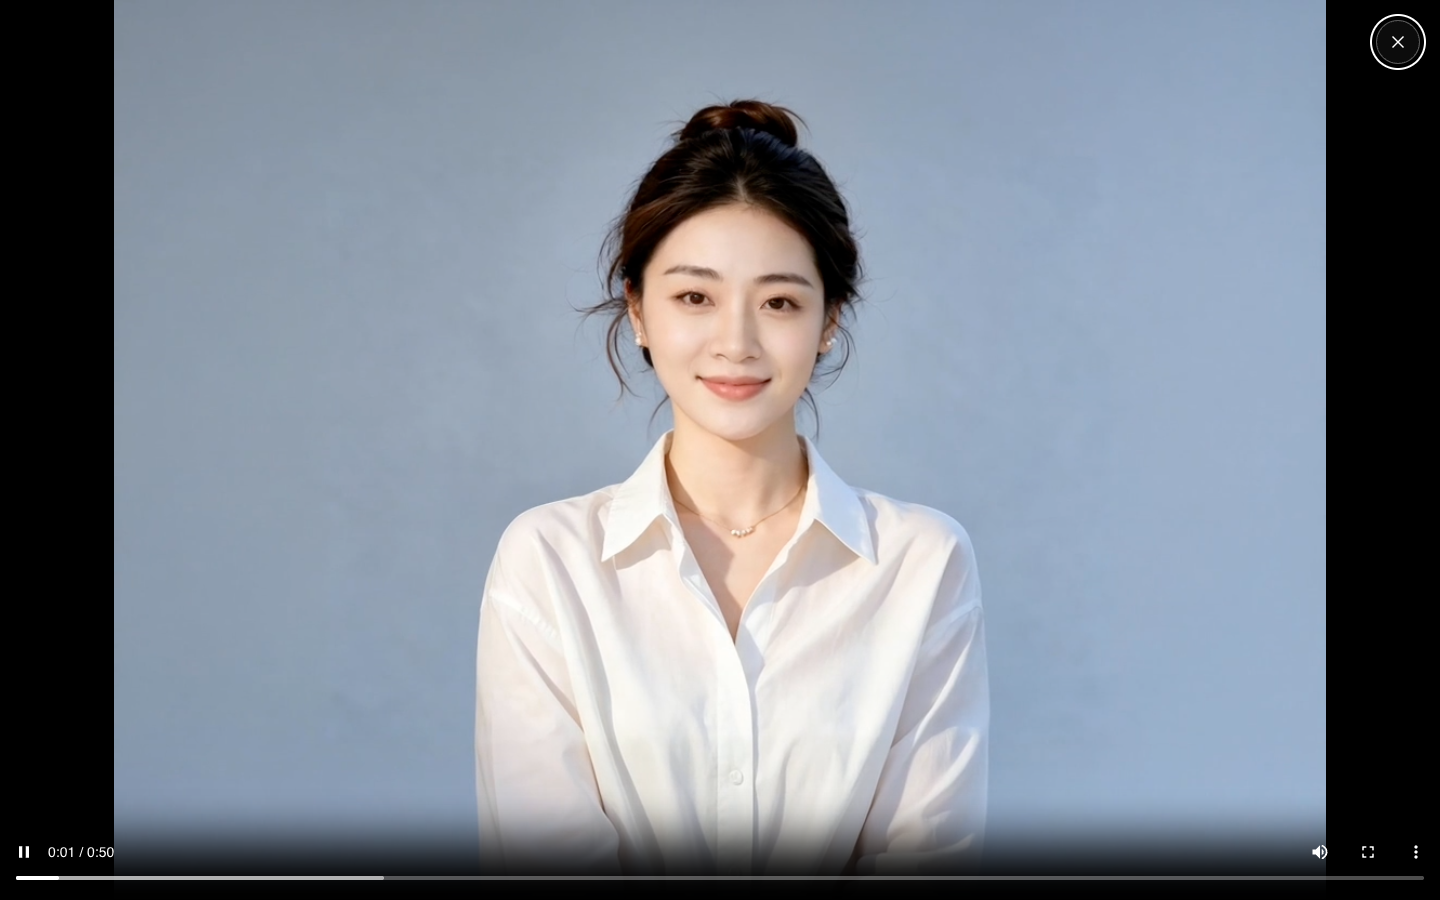
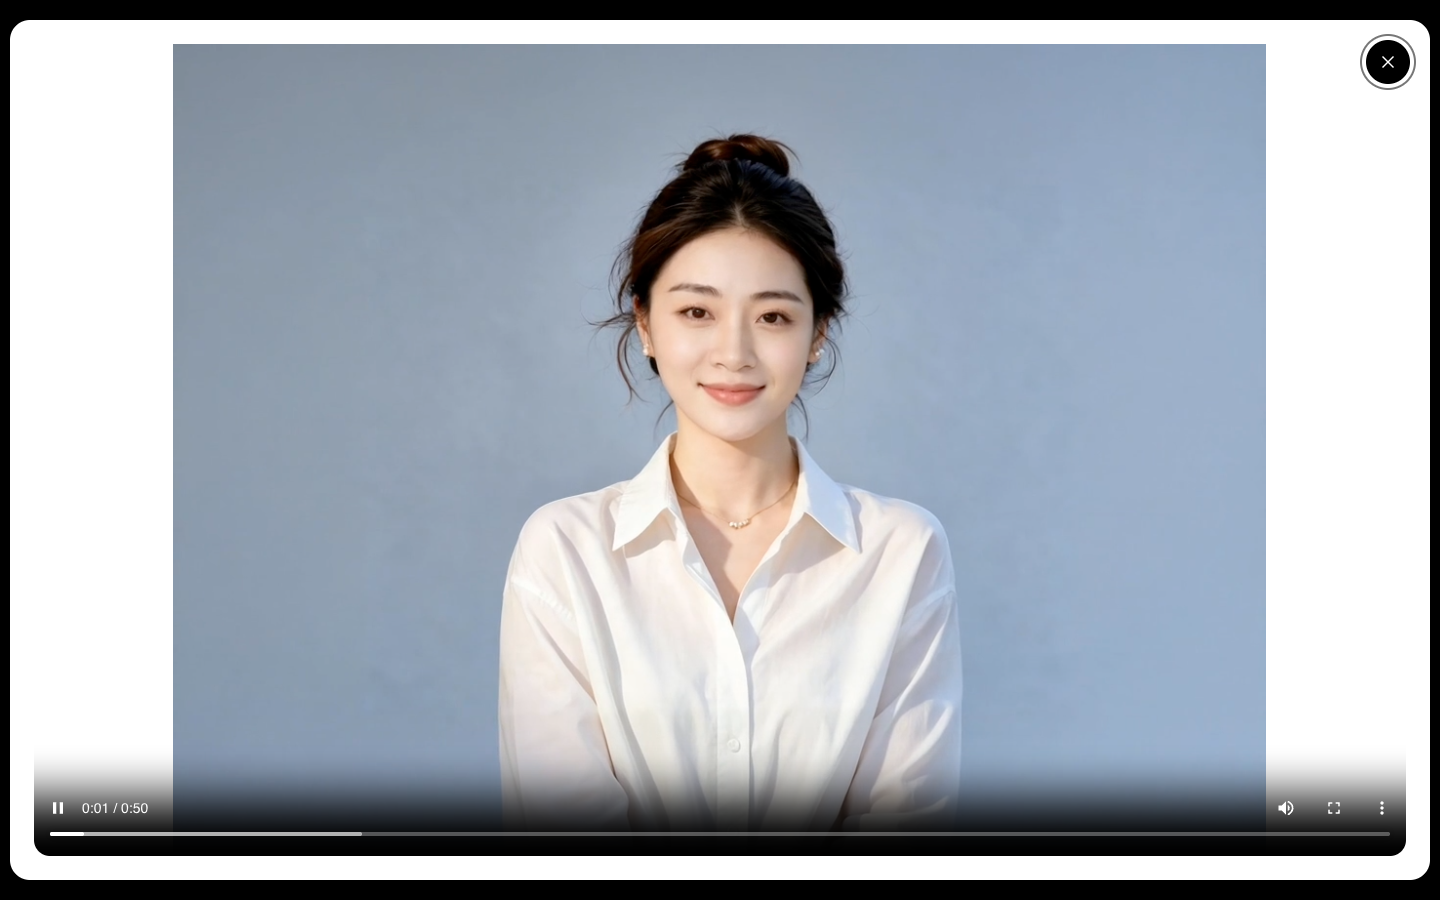
Keep rounded white detail frame for About video playback

diff --git a/tools/verify_showreel.js b/tools/verify_showreel.js
@@ -24,9 +24,9 @@ const wait=ms=>new Promise(r=>setTimeout(r,ms));
  await wait(1500);
  const fullscreen=await page.evaluate(()=>{
   const d=document.querySelector('.about-video-viewer'),v=d?.querySelector('video'),r=d?.getBoundingClientRect();
-  return {open:d?.open, width:r?.width,height:r?.height,vw:innerWidth,vh:innerHeight,muted:v?.muted,paused:v?.paused,time:v?.currentTime,text:d?.innerText};
+  return {open:d?.open, width:r?.width,height:r?.height,vw:innerWidth,vh:innerHeight,muted:v?.muted,paused:v?.paused,time:v?.currentTime,text:d?.innerText,background:getComputedStyle(d).backgroundColor,radius:getComputedStyle(d).borderRadius,scrolls:d.scrollHeight>d.clientHeight};
  });
- if(!fullscreen.open||fullscreen.width!==fullscreen.vw||fullscreen.height!==fullscreen.vh||fullscreen.muted||fullscreen.paused||fullscreen.time<=0||fullscreen.text.trim())throw Error('Video-only fullscreen/audio failed: '+JSON.stringify(fullscreen));
+ if(!fullscreen.open||fullscreen.width!==fullscreen.vw-20||fullscreen.height!==fullscreen.vh-40||fullscreen.background!=='rgb(255, 255, 255)'||fullscreen.radius!=='20px'||fullscreen.scrolls||fullscreen.muted||fullscreen.paused||fullscreen.time<=0||fullscreen.text.trim())throw Error('Video-only fullscreen/audio failed: '+JSON.stringify(fullscreen));
  await page.screenshot({path:path.join(__dirname,'../screenshots/about_video_fullscreen.png')});
  await page.getByRole('button',{name:'关闭视频'}).click();
  if(await page.locator('.about-video-viewer').count())throw Error('Close failed');
@@ -36,7 +36,7 @@ const wait=ms=>new Promise(r=>setTimeout(r,ms));
  await page.goto(origin,{waitUntil:'domcontentloaded'});await wait(5000);
  await page.locator('[data-gl="card"][data-id="showreel"]').click({force:true});await wait(1500);
  const mobile=await page.locator('.about-video-viewer').boundingBox();
- if(mobile.width!==390||mobile.height!==844)throw Error('Mobile fullscreen dimensions failed');
+ if(mobile.width!==370||mobile.height!==824)throw Error('Mobile fullscreen dimensions failed');
  await page.screenshot({path:path.join(__dirname,'../screenshots/about_video_mobile.png')});
  await page.getByRole('button',{name:'关闭视频'}).click();
  await page.goto(origin+'/projects/showreel',{waitUntil:'domcontentloaded'});await wait(3500);

diff --git a/site/local-copy.css b/site/local-copy.css
@@ -246,17 +246,22 @@ div.fixed.inset-0.z-40 a.label[href="/"] {
 /* About video opens above the complete gallery, without the case-study copy. */
 html.about-video-open { overflow: hidden; }
 .about-video-viewer {
-  position: fixed; inset: 0; width: 100vw; height: 100dvh;
-  max-width: none; max-height: none; margin: 0; padding: 0;
-  border: 0; border-radius: 0; background: #000; overflow: hidden;
+  position: fixed; inset: 20px 10px; width: calc(100vw - 20px); height: calc(100dvh - 40px);
+  max-width: none; max-height: none; margin: 0; padding: 24px; box-sizing: border-box;
+  border: 0; border-radius: 20px; background: #fff; overflow: hidden;
 }
 .about-video-viewer::backdrop { background: #000; }
-.about-video-viewer video { display: block; width: 100%; height: 100%; object-fit: contain; background: #000; }
+.about-video-viewer video { display: block; width: 100%; height: 100%; object-fit: contain; background: #fff; border-radius: 16px; }
 .about-video-close {
   position: absolute; top: max(20px, env(safe-area-inset-top));
   right: max(20px, env(safe-area-inset-right)); width: 44px; height: 44px;
-  display: grid; place-items: center; border: 1px solid #ffffff4d;
-  border-radius: 50%; background: #111b; color: #fff; cursor: pointer;
+  display: grid; place-items: center; border: 0;
+  border-radius: 50%; background: #000; color: #fff; cursor: pointer;
 }
 .about-video-close svg { width: 22px; height: 22px; stroke: currentColor; stroke-width: 1.8; fill: none; }
-.about-video-close:focus-visible { outline: 2px solid white; outline-offset: 4px; }
+.about-video-close:focus-visible { outline: 2px solid #777; outline-offset: 4px; }
+
+@media (max-width: 640px) {
+  .about-video-viewer { inset: 10px; height: calc(100dvh - 20px); padding: 12px; border-radius: 20px; }
+  .about-video-close { top: max(16px, env(safe-area-inset-top)); right: 16px; }
+}
